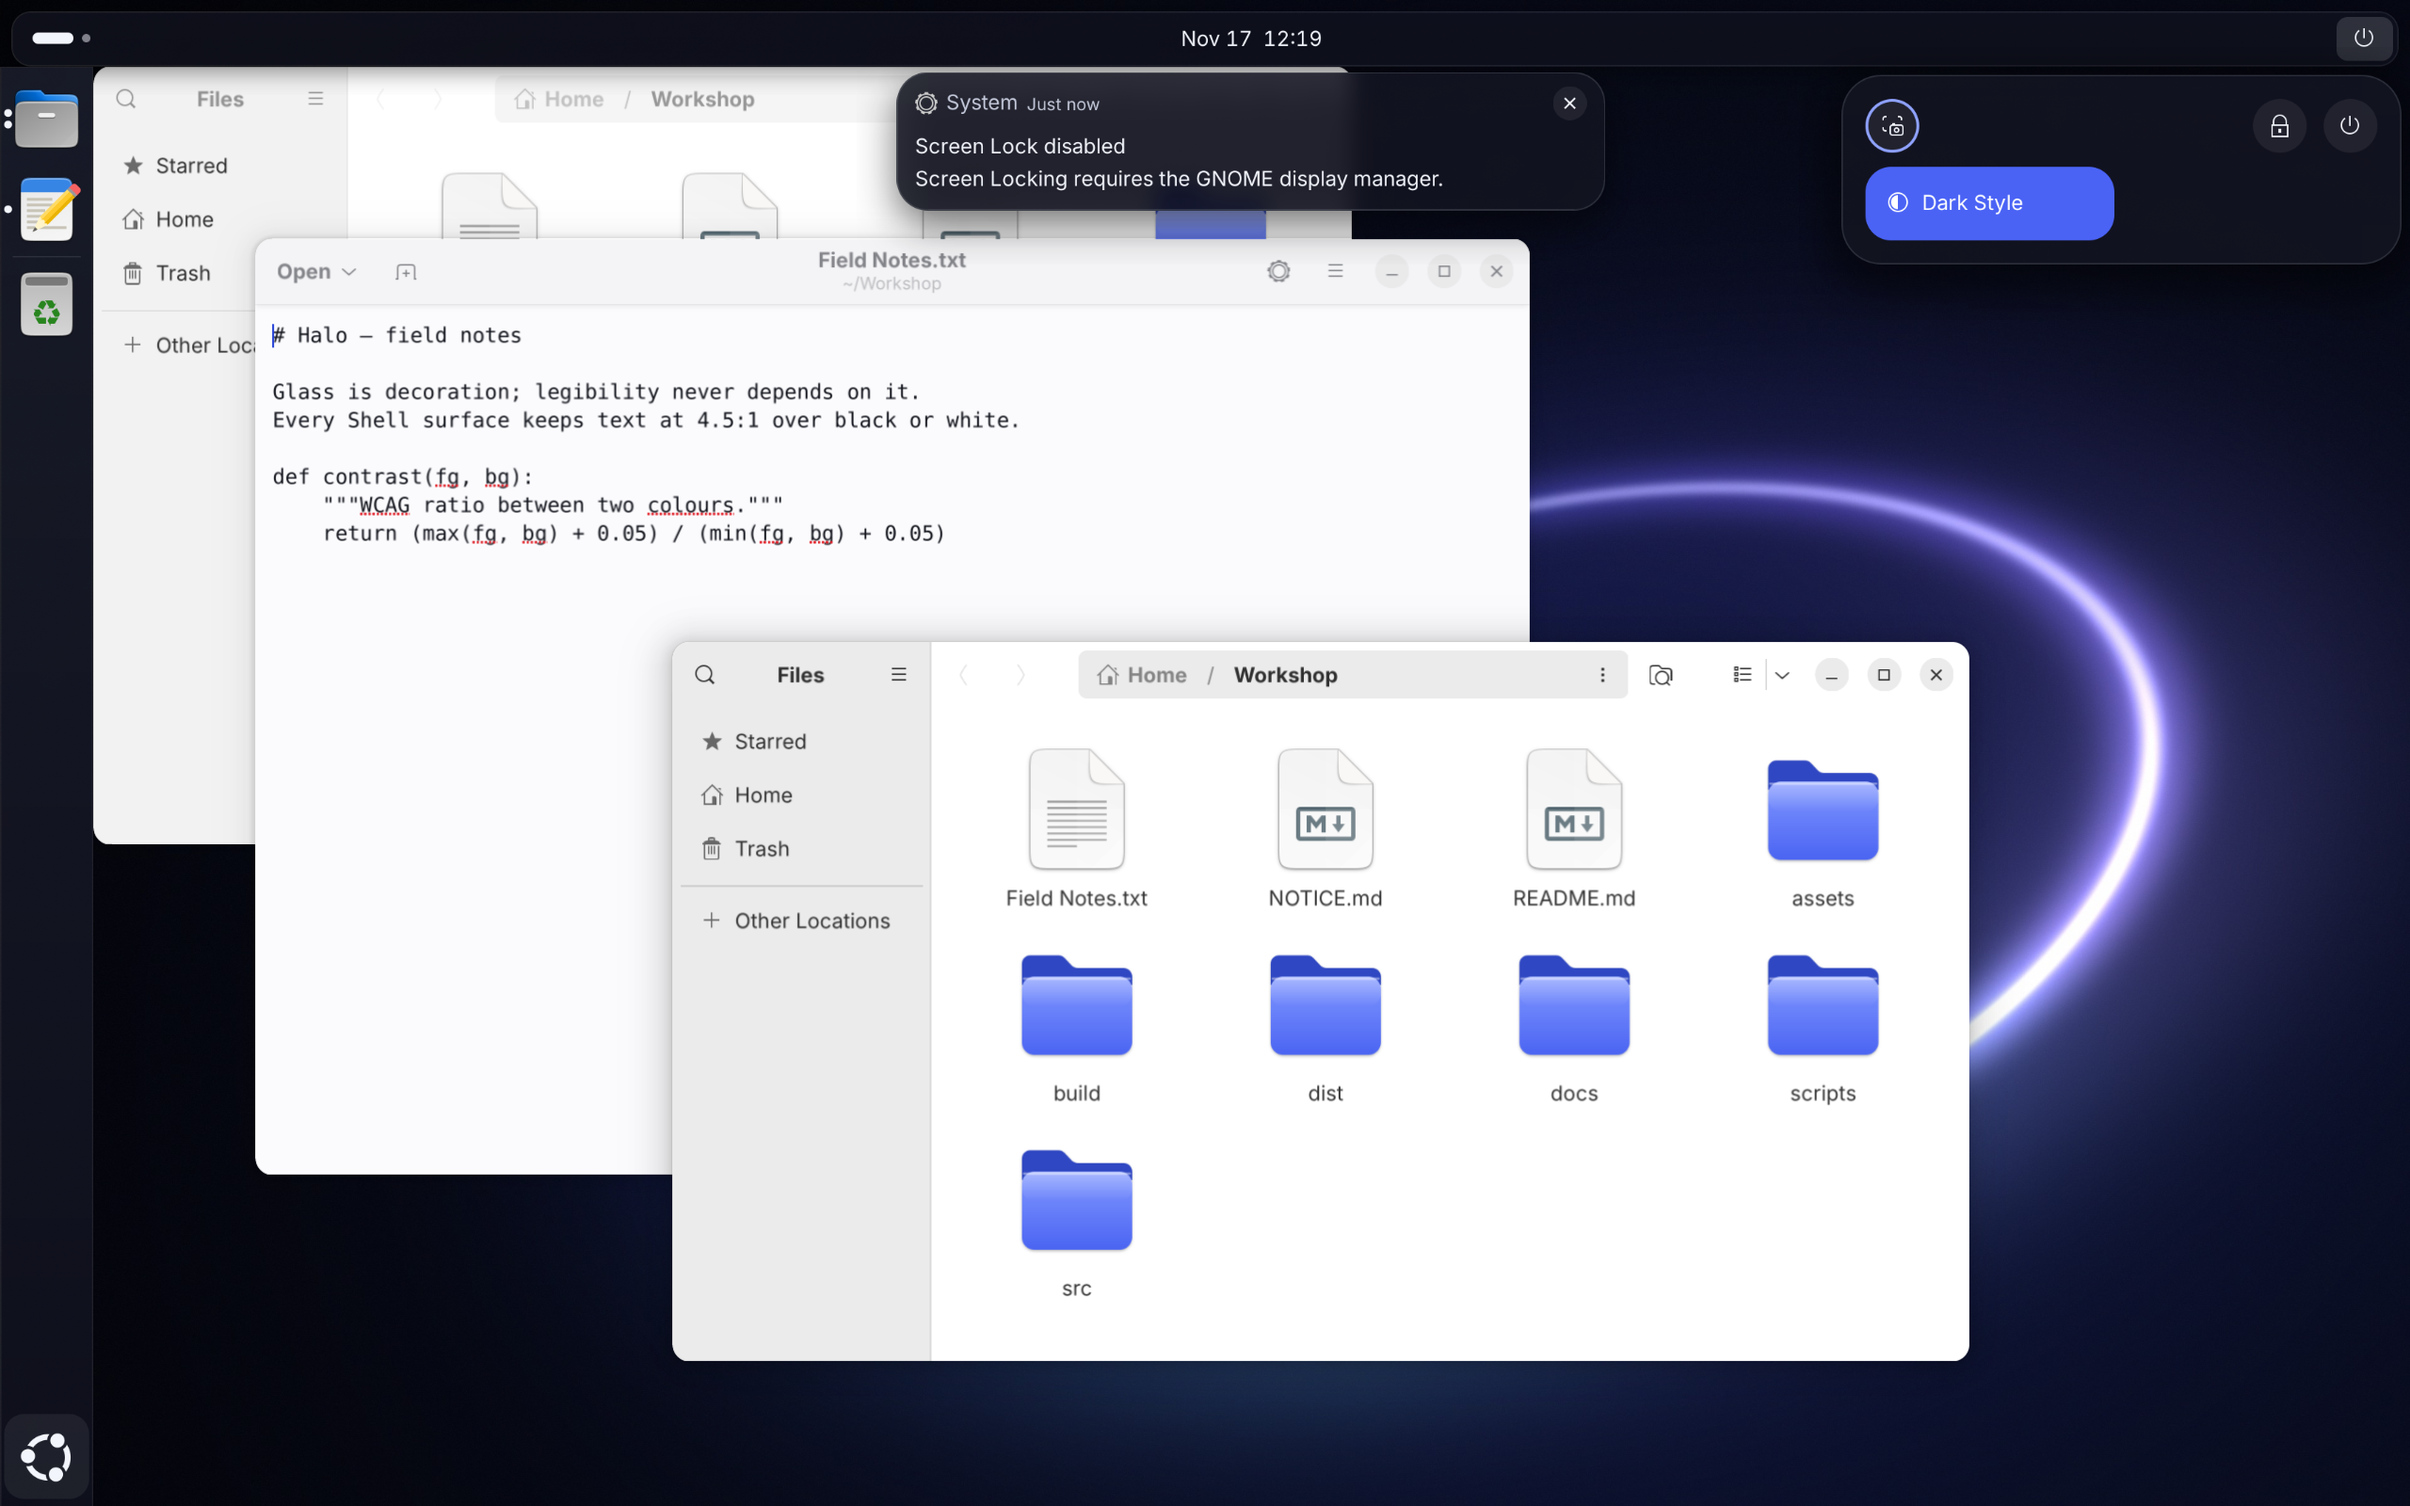
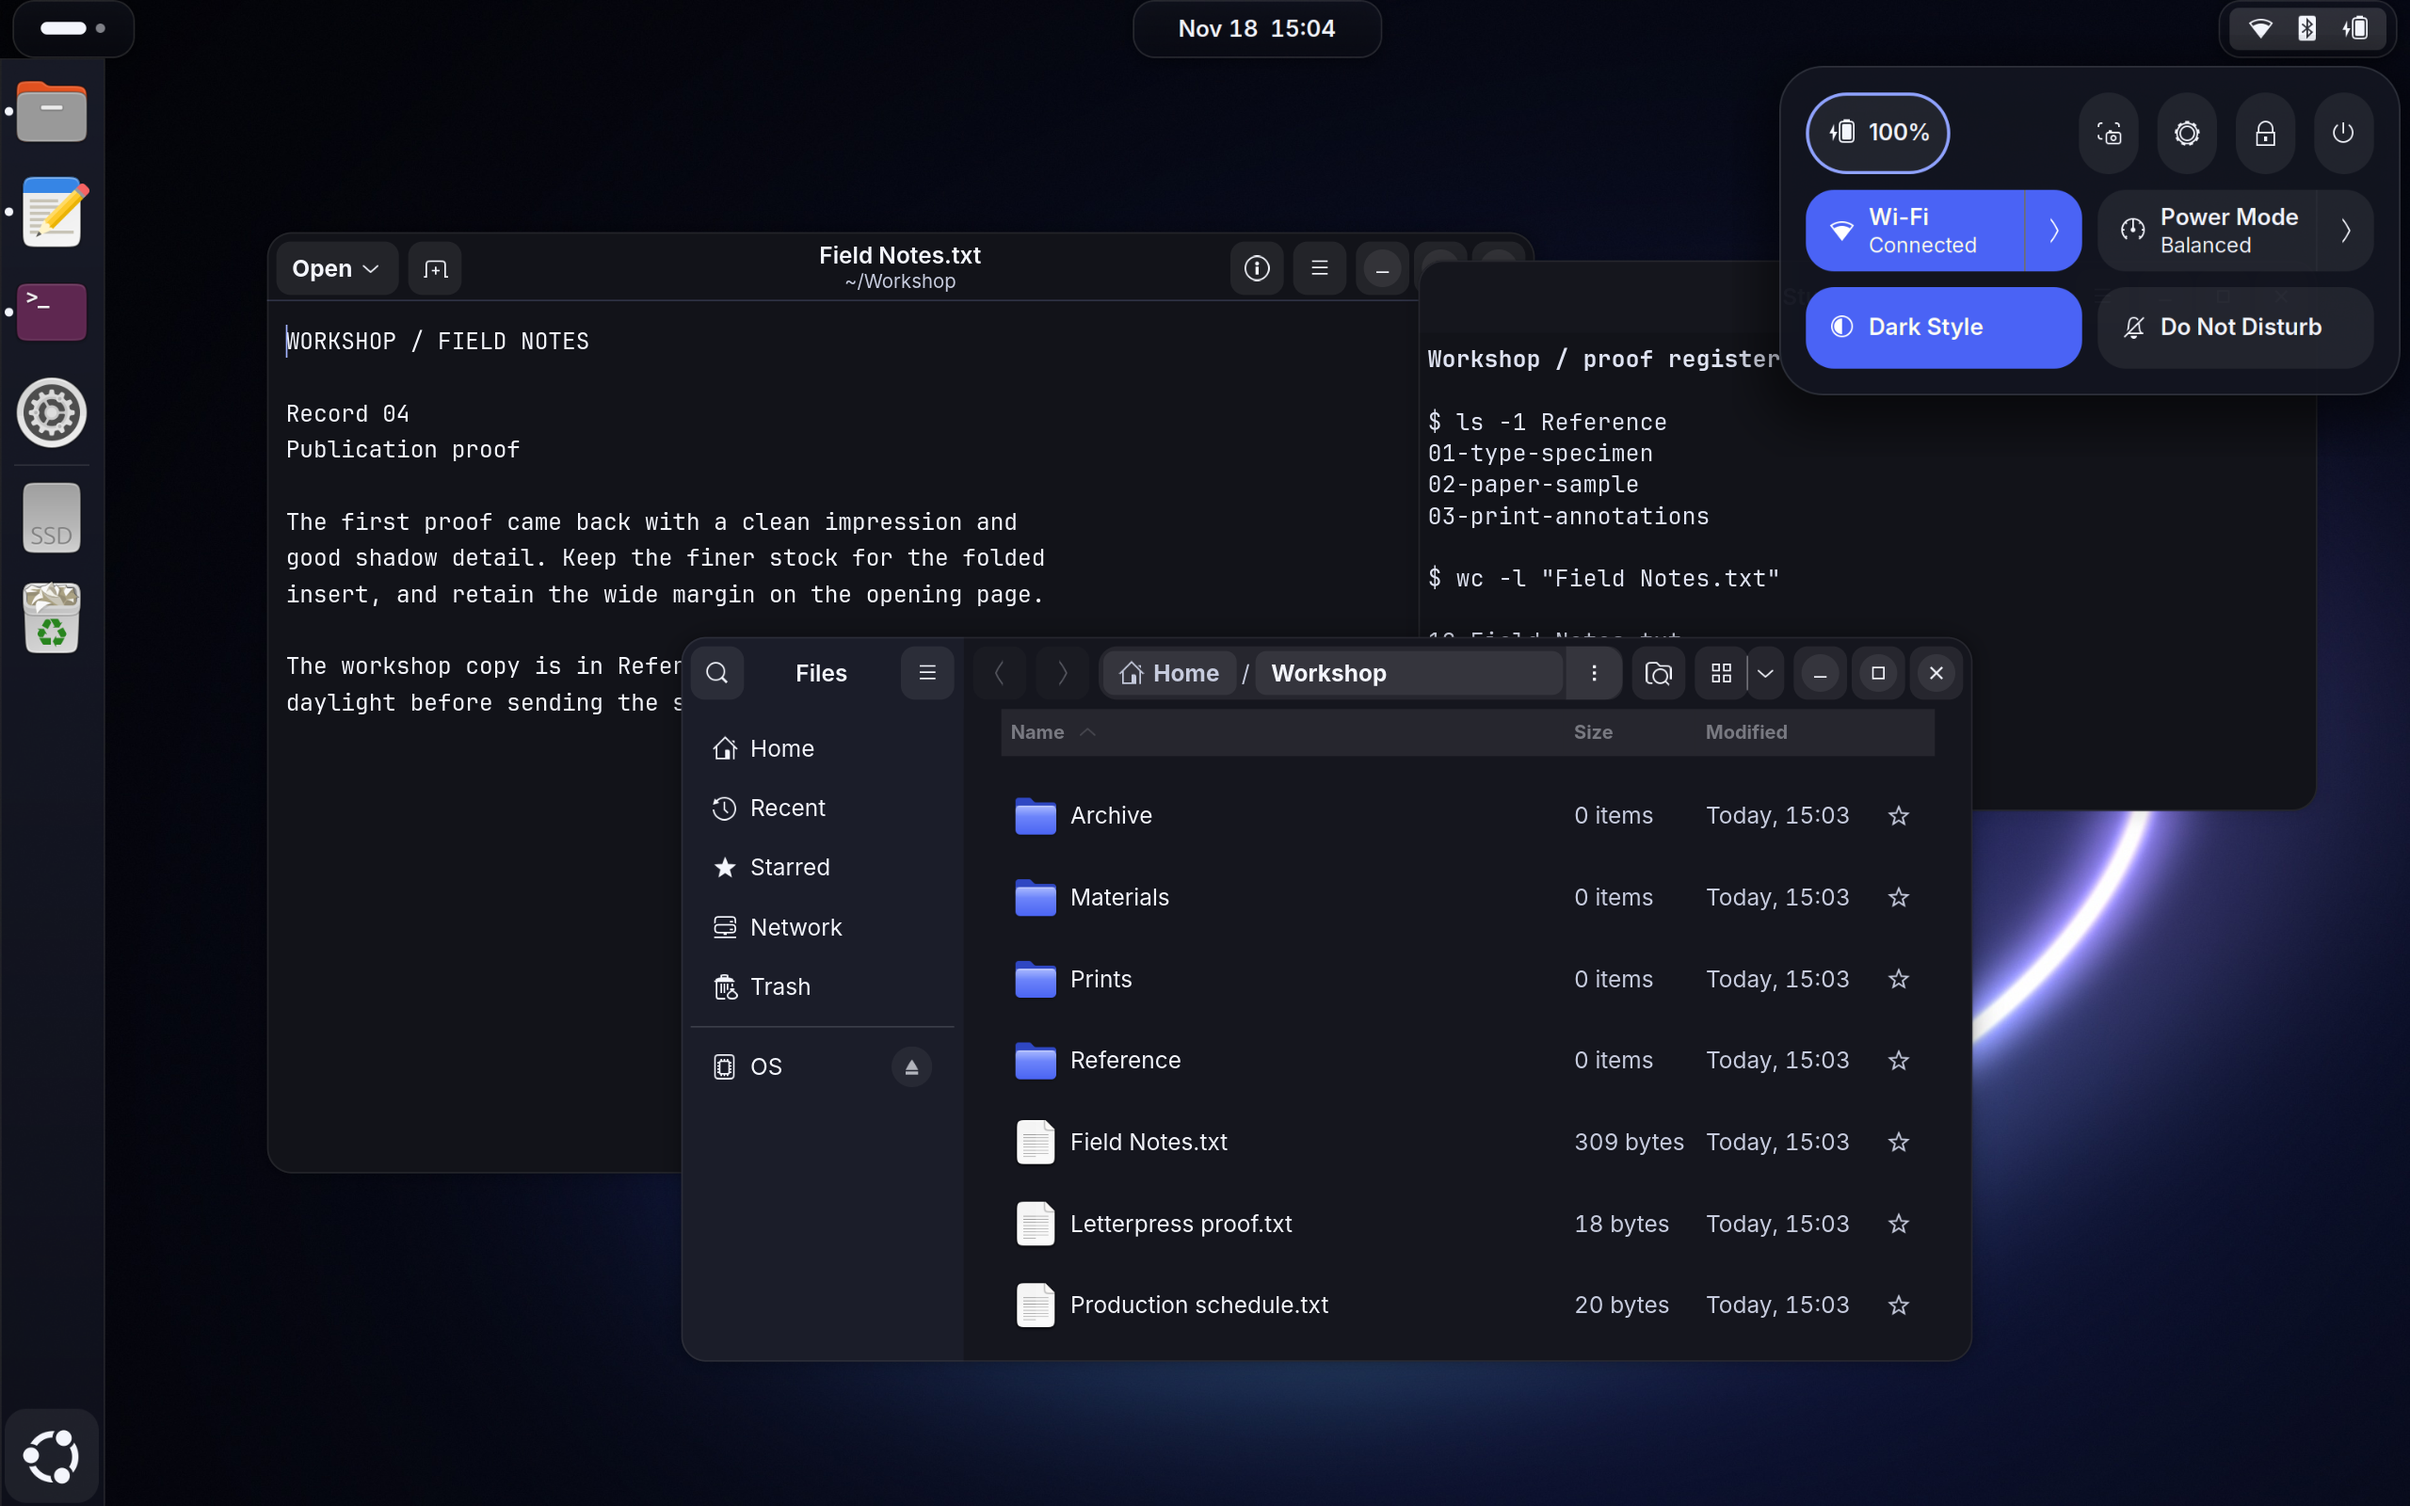
Replace screenshots with GNOME 50.1 captures and make scripts executable
The earlier screenshots came from a GNOME 46 session where apps stayed
light under the dark theme. These are re-taken on GNOME Shell 50.1.

diff --git a/docs/halo.md b/docs/halo.md
@@ -39,7 +39,7 @@ The lock screen belongs to your session, so it takes Halo's Shell styles directl
 
 - `./scripts/build --family halo` fails if any token pair drops below its target. Glass roles are tested as layered stacks: panel, popup, tile and pressed state are each composited over pure black and pure white. The generated table is written to `build/halo/contrast.md`, and it passes in both variants.
 - The islands were checked in the same session: all three carried Blur my Shell's `bms-popup-blurred` marker, the tint fitted to 0.36 in both variants, and `restore` returned the extension list exactly.
-- Before delivery, Halo ran in a disposable GNOME Shell **46** session with Ubuntu Dock, User Themes and Blur my Shell **v78**, at 2560 × 1600 and 166⅔%. That session covered install, both variants, the Blur my Shell configuration and the no-blur fallback. It also confirmed that `restore` returned the extension lists, icon theme, GTK theme, colour scheme, wallpaper and editor scheme exactly. Captures are in [halo-screenshots](halo-screenshots/). That session had no desktop portal, so apps there did not switch to dark. Shell 46 also draws its switches as Ubuntu's SVGs, with an orange edge; GNOME 50 draws them in CSS, which Halo styles.
+- Before delivery, Halo ran in a disposable GNOME Shell **46** session with Ubuntu Dock, User Themes and Blur my Shell **v78**, at 2560 × 1600 and 166⅔%. That session covered install, both variants, the Blur my Shell configuration and the no-blur fallback. It also confirmed that `restore` returned the extension lists, icon theme, GTK theme, colour scheme, wallpaper and editor scheme exactly. The published captures in [halo-screenshots](halo-screenshots/) were re-taken on GNOME Shell 50.1 (without Blur my Shell). That session had no desktop portal, so apps there did not switch to dark. Shell 46 also draws its switches as Ubuntu's SVGs, with an orange edge; GNOME 50 draws them in CSS, which Halo styles.
 - The GDM step was exercised against Ubuntu's real alternatives system (install, reinstall, restore). The greeter itself needs a running GDM to draw, so the login screen has not been seen yet.
 - The GNOME **50** pass is yours to run: `./scripts/visual-qa/run /tmp/halo-review all halo`. If Blur my Shell is installed for your user, the run copies it into the disposable session.
 

diff --git a/README.md b/README.md
@@ -5,7 +5,9 @@ A clear-glass theme for GNOME 50, built for Ubuntu 26.04. The top bar is three f
 Glass is decoration; legibility never depends on it. Every Shell surface is tinted so text keeps at least 4.5:1 contrast over pure black and pure white, even with no blur. If [Blur my Shell](https://extensions.gnome.org/extension/3193/blur-my-shell/) is installed, Halo configures it to blur what sits behind each surface.
 
 ![Halo light](docs/halo-screenshots/light/desktop.png)
-![Halo dark](docs/halo-screenshots/dark/notification.png)
+![Halo dark](docs/halo-screenshots/dark/desktop.png)
+
+More views (Quick Settings, calendar and notification, overview) are in [docs/halo-screenshots](docs/halo-screenshots/). They were captured in a disposable GNOME Shell 50.1 session on Ubuntu 26.04 (Wayland) **without** Blur my Shell, so they show Halo's tinted fallback. With Blur my Shell installed, the islands and menus also blur what is behind them.
 
 ## What you get
 
@@ -42,7 +44,7 @@ Nothing is installed system-wide, except the optional login screen. See [docs/ha
 ## Status
 
 - Developed and used daily on Ubuntu 26.04 with GNOME Shell 50 on Wayland.
-- The published screenshots and automated visual checks were produced in a disposable GNOME Shell 46 session. Run `./scripts/visual-qa/run /tmp/halo-review all halo` to repeat them on your own system.
+- The screenshots and automated visual checks come from the project's own disposable session (`./scripts/visual-qa/run /tmp/halo-review all halo`), which you can run on your own system. An earlier pass ran on GNOME Shell 46.
 - The login screen style has been exercised against Ubuntu's alternatives system but the greeter itself has not been seen on a running GDM. If it looks wrong, switch to a text console and run `sudo ./scripts/halo-login restore`.
 - GNOME versions other than 50, X11 sessions and other distributions are untested. Issues and pull requests are welcome.
 
